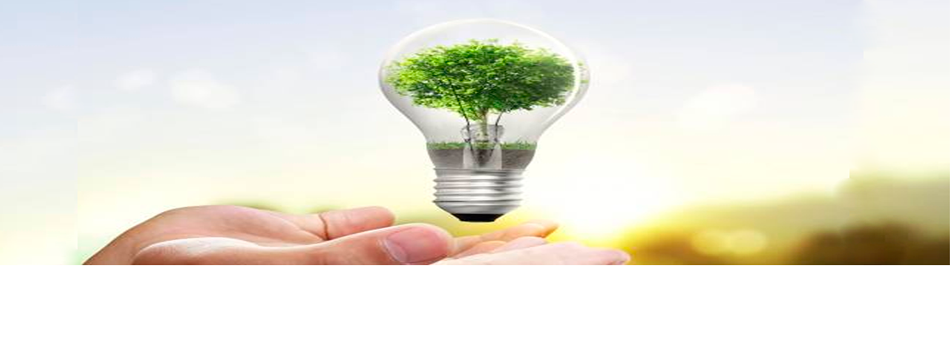
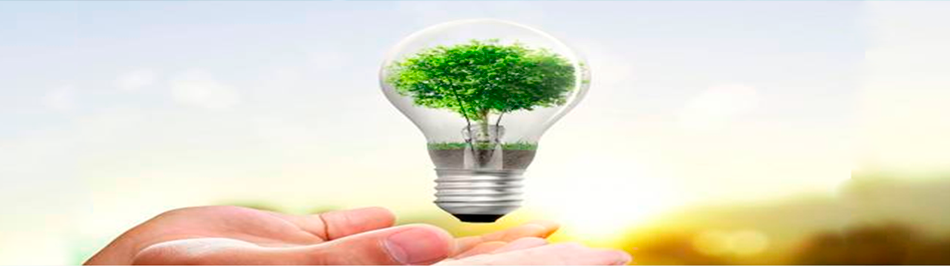
correcciones de imágenes y margen

diff --git a/app/static/css/inicio.css b/app/static/css/inicio.css
@@ -94,11 +94,11 @@ h2{
 }
 .arriba{
 	top:15%;
-	left:5%;
+	left: 20px;
 	width: 64%;
 }
 .abajo{
-	top: 50%;
+	top: 75%;
 	left:70%;
 	width: 60%;
 }
@@ -173,8 +173,7 @@ body{
 }
 .titulo,article{
 	text-align: center;
-	margin-top: -100px;
-	margin-bottom: 45px;
+	margin: 35px;
 	color: green;
 }
 #info .seccionIconos{
@@ -184,7 +183,7 @@ body{
 
 }
 .seccionIconos{
-	margin: 40px 0;
+	margin-bottom: 30px;
 }
 
 .icono img{
@@ -220,6 +219,11 @@ aside{
 	margin-top: 30px;
 	padding: 5px;
 }
+aside, .cercanos{
+	display: flex;
+    flex-wrap: wrap;
+    justify-content: center;
+}
 
 .aside img{
 	width: 70%;
@@ -228,8 +232,9 @@ aside{
 
 /*  Puntos cercanos */
 .cercanos{
-	margin-bottom: 20px;
+	margin: 20px;
 	width: 100%;
+
 
 }
 .cercanos h3, .org h3{
@@ -240,8 +245,8 @@ aside{
 
 .mapa{
 	width:50%;
-	height: 90%;
-	margin-left: 5%;
+	margin-left: 10px;
+
 
 }
 
@@ -277,11 +282,10 @@ aside{
 	}
 	.abajo{
 		left: 38%;
-		top: 55%;
 		width: 65%;
 	}
 	.arriba{
-		top: 5%;
+		top: 10px;
 		width: 80%;
 	}
 	.icono img{
@@ -295,11 +299,12 @@ aside{
 		margin: 5px 0;
 	}
 	.titulo, article, .cercanos h3{
-		margin-top: 10px;
+		margin-top: 20px;
 		font-size: 14px;
 	}
 	aside{
-		margin: 10px 0;
+		margin: 20px 0;
+		
 
 	}
 	

diff --git a/app/static/css/faq.css b/app/static/css/faq.css
@@ -1,12 +1,8 @@
 /*
-- Color de background al estar posicionado en la página 
 - Distribución de los elementos en la página con el sistema de grilla
 */
 
-/* Color */
-.item:nth-child(6){
-	background:green;
-}
+
 /* Grilla */
 .body{
 	display: grid;

diff --git a/app/static/css/estilos.css b/app/static/css/estilos.css
@@ -85,7 +85,6 @@ header .template1 input:nth-child(2){
 /* ofertas destacadas */
 .ofertas{
     width: 100%;
-    margin: 20px;
 
 }
 .ofertas p, .ofertas h3{
